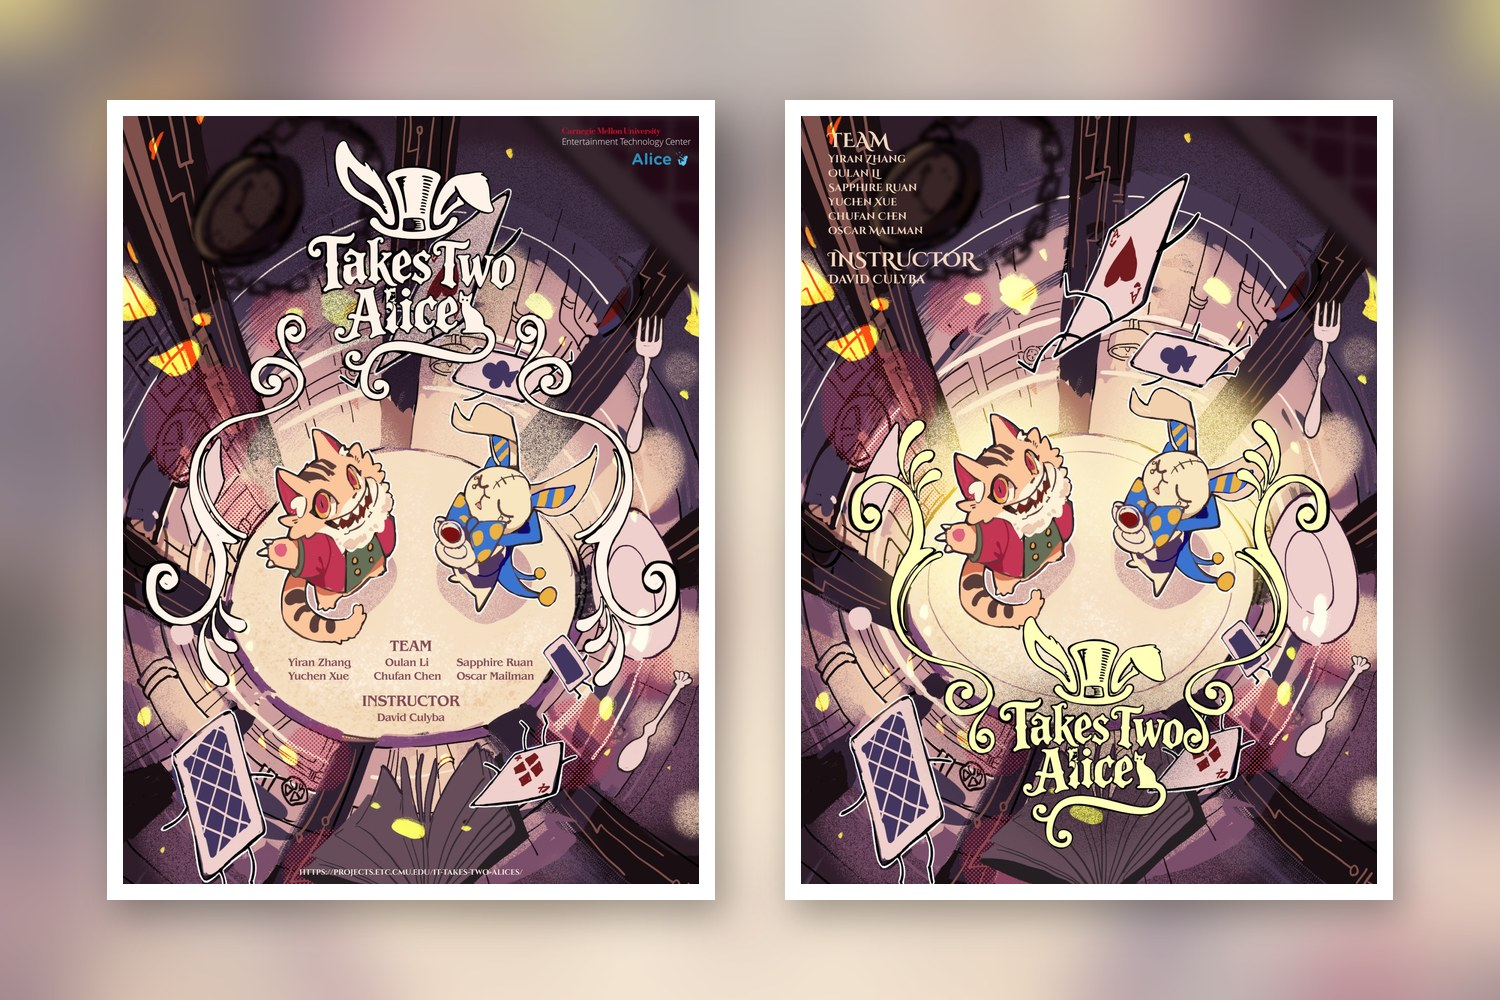
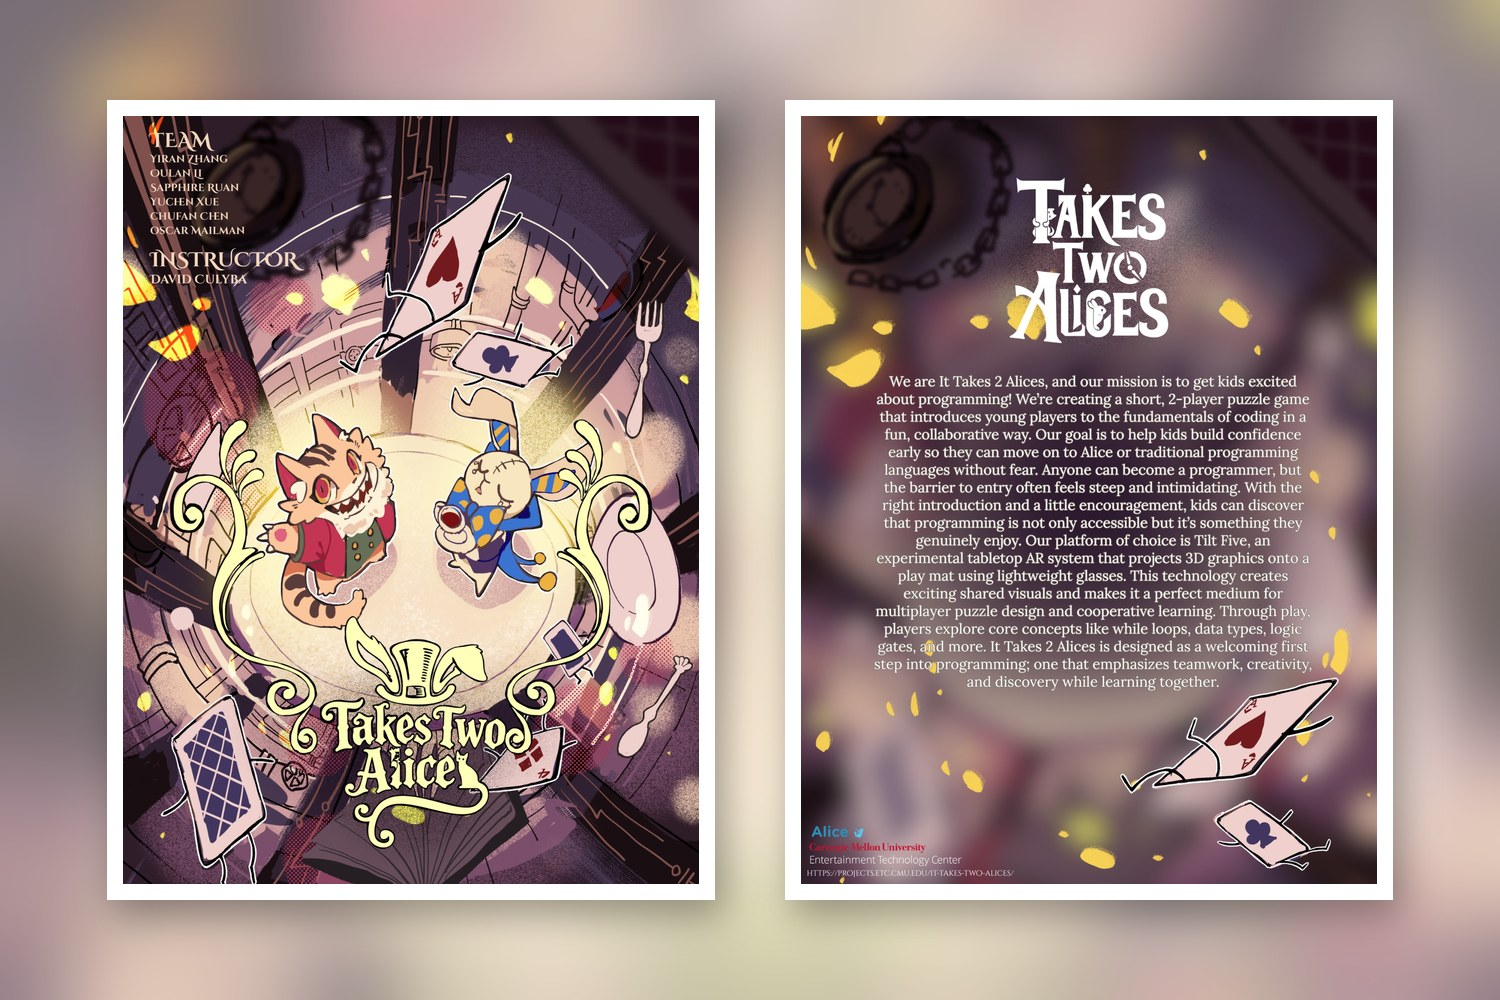
it takes two alices cover: flyer front and back
Claude-Session: https://claude.ai/code/session_01CzUgLB4bLHRPfWzb5fm5tx

diff --git a/index.html b/index.html
@@ -60,7 +60,7 @@
       </article>
 
       <article class="project" id="p2">
-        <a class="slides cover" href="work/it-takes-two-alices.html"><img src="assets/images/covers/itta.jpg" alt="it takes two alices poster and half-sheet flyer"></a>
+        <a class="slides cover" href="work/it-takes-two-alices.html"><img src="assets/images/covers/itta.jpg" alt="it takes two alices flyer, front and back"></a>
         <div class="meta">
           <p><a href="work/it-takes-two-alices.html">it takes two alices</a><br>2026</p>
           <div>
